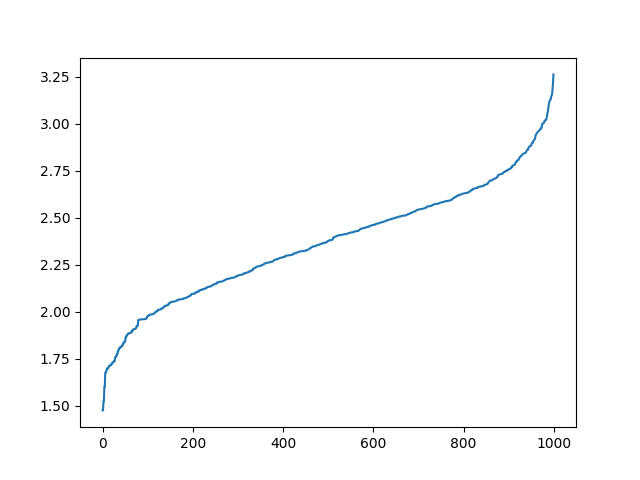
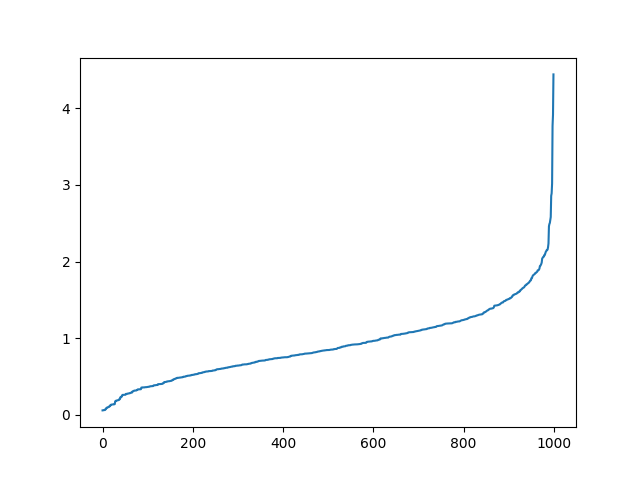
changes

diff --git a/dbscan.py b/dbscan.py
@@ -21,16 +21,16 @@ n = len(data.columns)
 print("Dataset shape:", data.shape)
 
 # Normalize data
-data = pd.DataFrame(StandardScaler().fit_transform(data), columns = column_names)
+data_normal = pd.DataFrame(StandardScaler().fit_transform(data), columns = column_names)
 
 ###################################################################
 ## TSNE
 ###################################################################
 
-#print('\n----------------TSNE----------------\n')
-#n_components = 2
-#tsne = TSNE(n_components)
-#data = tsne.fit_transform(data)
+print('\n----------------TSNE----------------\n')
+n_components = 2
+tsne = TSNE(n_components)
+data = tsne.fit_transform(data_normal)
 
 
 ###################################################################
@@ -55,7 +55,7 @@ plt.savefig('./data_house/figure_pre_dbsacn') # showing the plot
 ###################################################################
 # clusters
 print('\n-----------------DBSCAN--------------\n')
-dbscan = DBSCAN(eps = 0.8, min_samples = 2 * n).fit(data) 
+dbscan = DBSCAN(eps = 2, min_samples = 6).fit(data) 
 core_samples_mask = np.zeros_like(dbscan.labels_, dtype=bool)
 core_samples_mask[dbscan.core_sample_indices_] = True
 labels = dbscan.labels_ # getting the labels
@@ -107,16 +107,25 @@ if data.shape[1] != 2:
     ###################################################################
 
     pca = PCA(n_components=2)
-    principalComponents = pca.fit_transform(data)
+    principalComponents = pca.fit_transform(data_normal)
     principalDf = pd.DataFrame(data = principalComponents
                 , columns = ['principal component 1', 'principal component 2'])
     principalDf['color'] = kmeans.labels_
+    
+    
 
-    plt.figure(figsize=(10,8))
+    plt.figure(figsize=(15,8))
+    plt.subplot(1,2,1)
     plt.scatter(principalComponents[:,0], principalComponents[:,1], c=kmeans.labels_, cmap= "plasma") 
     plt.xlabel('principal component 1')
     plt.ylabel('principal component 2')
-    plt.title('pca')
+    plt.title('pca (kmeans)')
+    
+    plt.subplot(1,2,2)
+    plt.scatter(principalComponents[:,0], principalComponents[:,1], c=labels, cmap= "plasma") 
+    plt.xlabel('principal component 1')
+    plt.ylabel('principal component 2')
+    plt.title('pca (DBSCAN)')
     plt.savefig('./data_house/figure_dbsacn_pca') # showing the plot
 
 
@@ -126,20 +135,37 @@ if data.shape[1] != 2:
 
     n_components = 2
     tsne = TSNE(n_components)
-    tsne_result = tsne.fit_transform(data)
+    tsne_result = tsne.fit_transform(data_normal)
     tsne_result.shape
     
-    plt.figure(figsize=(10,8))
+    plt.figure(figsize=(15,8))
+    plt.subplot(1,2,1)
     plt.scatter(tsne_result[:,0], tsne_result[:,1], c=kmeans.labels_, cmap= "plasma") 
     plt.xlabel('principal component 1')
     plt.ylabel('principal component 2')
-    plt.title('tsne')
+    plt.title('tsne (kmeans)')
+    
+    plt.subplot(1,2,2)
+    plt.scatter(tsne_result[:,0], tsne_result[:,1], c=labels, cmap= "plasma") 
+    plt.xlabel('principal component 1')
+    plt.ylabel('principal component 2')
+    plt.title('tsne (DBSCAN)')
+    
     plt.savefig('./data_house/figure_dbsacn_tsne')
 else:
-    plt.figure(figsize=(10,8))
+    plt.figure(figsize=(15,8))
+    plt.subplot(1,2,1)
     plt.scatter(data[:,0], data[:,1], c=kmeans.labels_, cmap= "plasma") 
     plt.xlabel('principal component 1')
     plt.ylabel('principal component 2')
+    plt.title('kmeans')
+    
+    plt.subplot(1,2,2)
+    plt.scatter(data[:,0], data[:,1], c=labels, cmap= "plasma") 
+    plt.xlabel('principal component 1')
+    plt.ylabel('principal component 2')
+    plt.title('DBSCAN')
+    
     plt.savefig('./data_house/figure_dbsacn') # showing the plot
 
 
